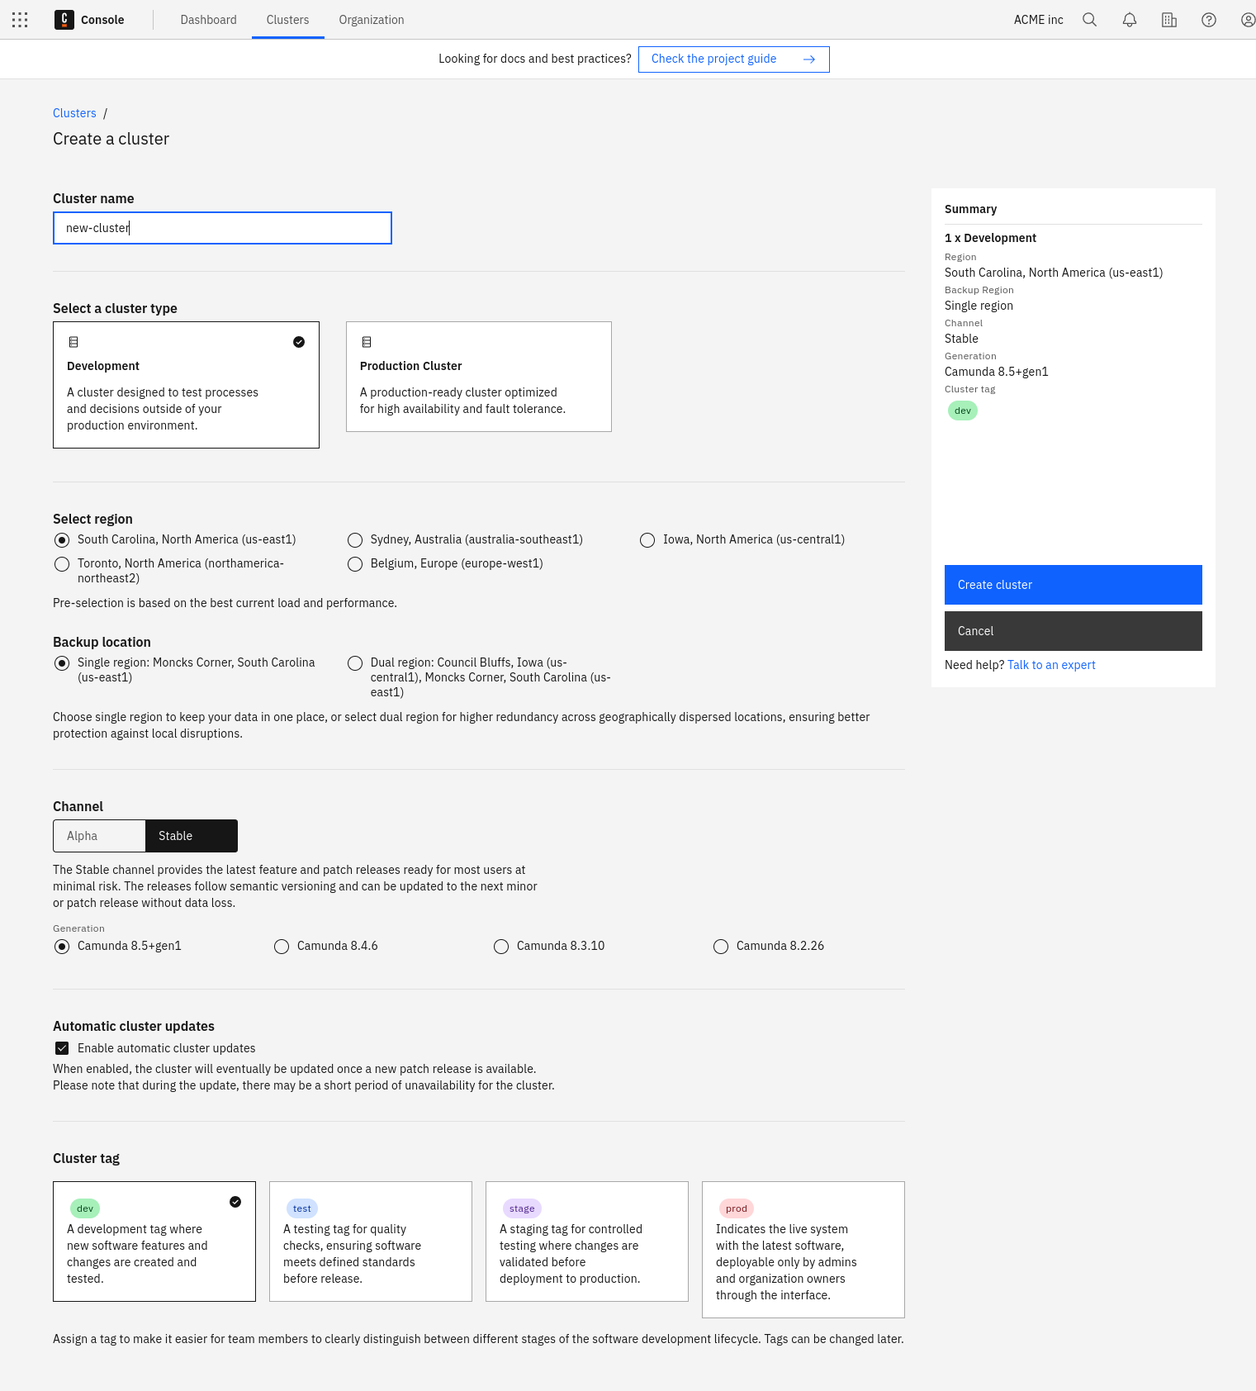
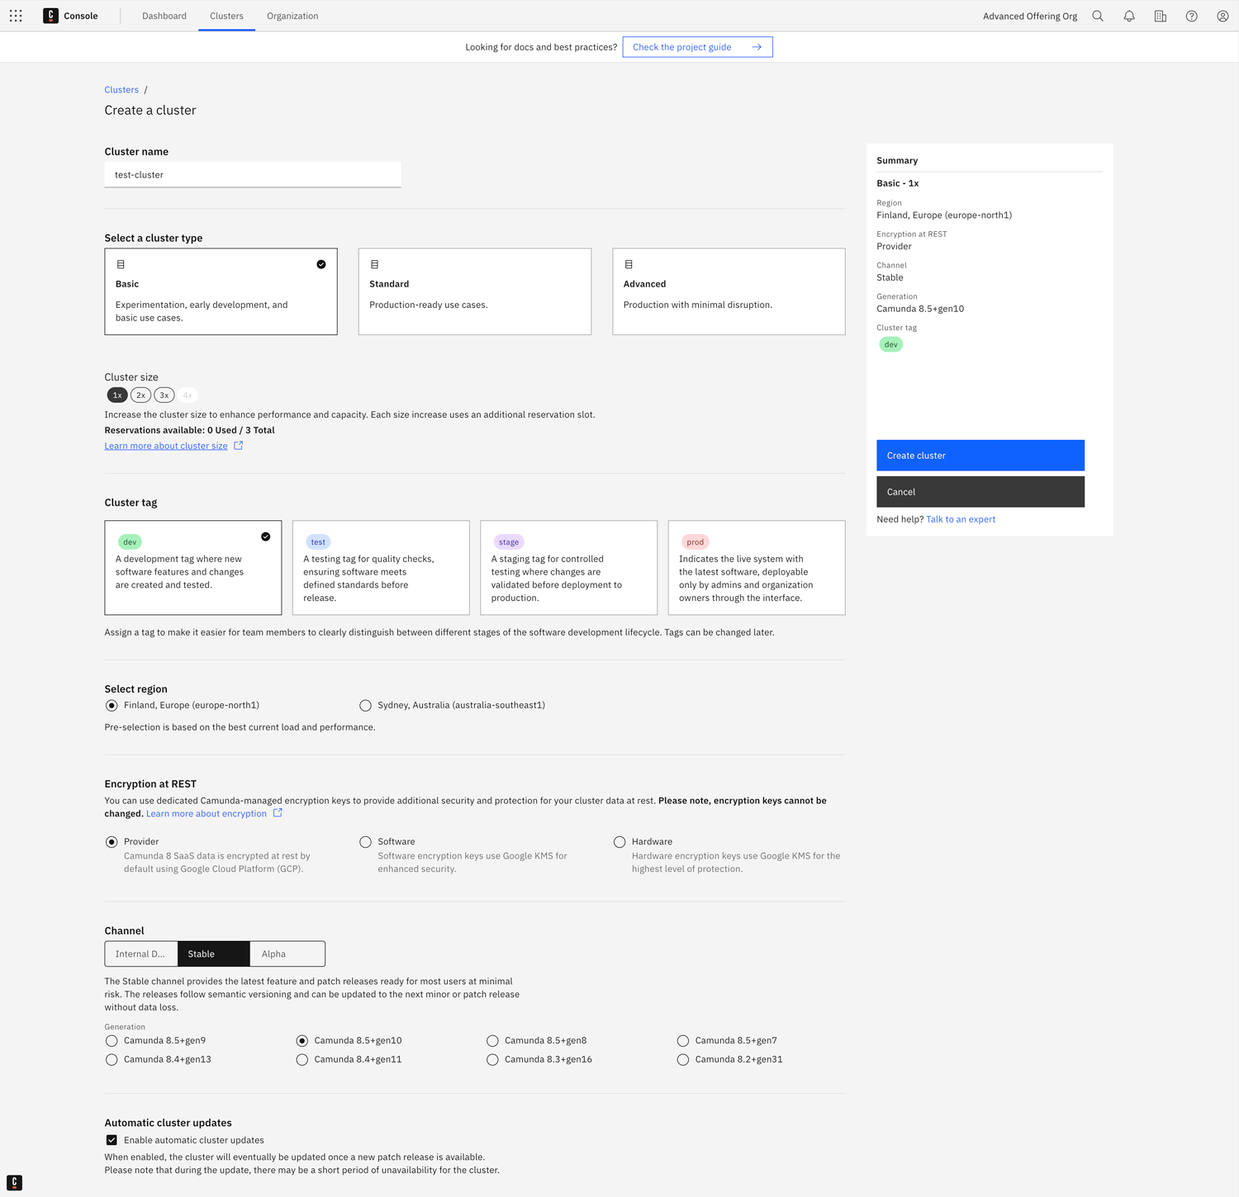
Advanced SaaS Offering with increased uptime (#4361)
* Initial draft of Clusters page

* Fix typo

* Add hardware sizing table

* Review edits

* Cluster sizes table

* TW edits

* TW and feedback edits

* Add 4x size and incorporate feedback

* Fix table Disk size

diff --git a/docs/components/best-practices/architecture/sizing-your-environment.md b/docs/components/best-practices/architecture/sizing-your-environment.md
@@ -87,7 +87,7 @@ The payload size also affects disk space requirements, as described in the next 
 
 The workflow engine itself will store data along every process instance, especially to keep the current state persistent. This is unavoidable. In case there are human tasks, data is also sent to Tasklist and kept there, until tasks are completed.
 
-Furthermore, data is also sent Operate and Optimize, which store data in Elasticsearch. These tools keep historical audit data for some time. The total amount of disk space can be reduced by using **data retention settings**. We typically delete data in Operate after 30 to 90 days, but keep it in Optimize for a longer period of time to allow more analysis. A good rule of thumb is something between 6 and 18 months.
+Furthermore, data is also sent from Operate and Optimize, which store data in Elasticsearch. These tools keep historical audit data for the configured retention times. The total amount of disk space can be reduced by using **data retention settings**. We typically delete data in Operate after 30 to 90 days, but keep it in Optimize for a longer period of time to allow more analysis. A good rule of thumb is something between 6 and 18 months.
 
 :::note
 Elasticsearch needs enough memory available to load a large amount of this data into memory.
@@ -139,23 +139,35 @@ First, calculate your requirements using the information provided above, taking 
 - Throughput: 20,000 process instances / day
 - Disk space: 114 GB
 
-Now you can select a hardware package that can cover these requirements. In this example this fits well into a cluster of size S.
+Now you can select a hardware package that can cover these requirements. In this example this fits well into a cluster of size 2x.
 
 ### Camunda 8 SaaS
 
-Camunda 8 defines three fixed hardware packages you can select from. The table below gives you an indication what requirements you can fulfill with these. If your requirements are above the mentioned numbers, please contact us to discuss a customized sizing.
+Camunda 8 defines four [cluster sizes](/components/concepts/clusters.md#cluster-size) you can select from (1x, 2x, 3x, and 4x) after you have chosen your [cluster type](/components/concepts/clusters.md#cluster-type). The following table gives you an indication of what requirements you can fulfill with each cluster size.
 
-| **\***                                                                   |                               S |                               M |                                L |
-| :----------------------------------------------------------------------- | ------------------------------: | ------------------------------: | -------------------------------: |
-| Max Throughput **Tasks/day**                                             |                           5.9 M |                            23 M |                             43 M |
-| Max Throughput **Tasks/second**                                          |                              65 |                             270 |                              500 |
-| Max Throughput **Process Instances/day**                                 |                           0.5 M |                           2.3 M |                            4.3 M |
-| Max Total Number of Process Instances stored (in Elasticsearch in total) |                           100 k |                           5.4 M |                             15 M |
-| Approx resources provisioned **\*\***                                    | 15 vCPU, 20 GB mem, 640 GB disk | 28 vCPU, 50 GB mem, 640 GB disk | 56 vCPU, 85 GB mem, 1320 GB disk |
+:::note
+Contact your Customer Success Manager if you require a custom cluster size above these requirements.
+:::
 
-**\*** The numbers in the table where measured using Camunda 8 (version 8.0) and [the benchmark project](https://github.com/camunda-community-hub/camunda-8-benchmark). It uses a [ten task process](https://github.com/camunda-community-hub/camunda-8-benchmark/blob/main/src/main/resources/bpmn/typical_process.bpmn). To calculate day-based metrics, an equal distribution over 24 hours is assumed.
+| Cluster size                                                                        |                                 1x |                                  2x |                               3x |                               4x |
+| :---------------------------------------------------------------------------------- | ---------------------------------: | ----------------------------------: | -------------------------------: | -------------------------------: |
+| Max Throughput **Tasks/day** **\***                                                 |                              4.3 M |                               8.6 M |                           12.9 M |                           17.2 M |
+| Max Throughput **Tasks/second** **\***                                              |                                 50 |                                 100 |                              150 |                              200 |
+| Max Throughput **Process Instances/day** **\*\***                                   |                                3 M |                                 6 M |                              9 M |                             12 M |
+| Max Total Number of Process Instances stored (in Elasticsearch in total) **\*\*\*** |                               75 k |                               150 k |                            225 k |                            300 k |
+| Approximate resources provisioned **\*\*\*\***                                      | 11 vCPU, 22 GB memory, 64 GB disk. | 22 vCPU, 44 GB memory, 128 GB disk. | 33 vCPU, 66 GB mem, 192 GB disk. | 44 vCPU, 88 GB mem, 256 GB disk. |
 
-**\*\*** These are the resource limits configured in the Kubernetes cluster and are always subject to change.
+The numbers in the table were measured using Camunda 8 (version 8.6), [the benchmark project](https://github.com/camunda-community-hub/camunda-8-benchmark) running on its own Kubernetes Cluster, and using a [realistic process](https://github.com/camunda/camunda/blob/main/zeebe/benchmarks/project/src/main/resources/bpmn/realistic/bankCustomerComplaintDisputeHandling.bpmn) containing a mix of BPMN symbols such as tasks, events and call activities including subprocesses. To calculate day-based metrics, an equal distribution over 24 hours is assumed.
+
+**\*** Tasks (Service Tasks, Send Tasks, User Tasks, and so on) completed per day is the primary metric, as this is easy to measure and has a strong influence on resource consumption. This number assumes a constant load over the day. Tasks/day and Tasks/ second are scaled linearly.
+
+**\*\*** As Tasks are the primary resource driver, the number of process instances supported by a cluster is calculated based on the assumption of an average of 10 tasks per process. Customers can calculate a more accurate process instance estimate using their anticipated number of tasks per process.
+
+**\*\*\*** Total number of process instances within the retention period, regardless of if they are active or finished. This is limited by disk space, CPU, and memory for running and historical process instances available to ElasticSearch. Calculated assuming a typical set of process variables for process instances. Note that it makes a difference if you add one or two strings (requiring ~ 1kb of space) to your process instances, or if you attach a full JSON document containing 1MB, as this data needs to be stored in various places, influencing memory and disk requirements. If this number increases, you can still retain the runtime throughput, but Tasklist, Operate, and/or Optimize may lag behind.
+
+Data retention has an influence on the amount of data that is kept for completed instances in your cluster. The default data retention is set to 30 days, which means that data that is older than 30 days gets removed from Operate and Tasklist. If a process instance is still active, it is fully functioning in runtime, but customers are not able to access historical data older than 30 days from Operate and Tasklist. Data retention is set to 6 months, meaning that data that is older than 6 months will be removed from Optimize. Up to certain limits data retention can be adjusted by Camunda on request. See [Camunda 8 SaaS data retention](/components/concepts/data-retention.md).
+
+**\*\*\*\*** These are the resource limits configured in the Kubernetes cluster and are always subject to change.
 
 You might wonder why the total number of process instances stored is that low. This is related to limited resources provided to Elasticsearch, yielding performance problems with too much data stored there. By increasing the available memory to Elasticsearch you can also increase that number. At the same time, even with this rather low number, you can always guarantee the throughput of the core workflow engine during peak loads, as this performance is not influenced. Also, you can always increase memory for Elasticsearch later on if it is required.
 
@@ -163,7 +175,7 @@ You might wonder why the total number of process instances stored is that low. T
 
 Provisioning Camunda 8 onto your Self-Managed Kubernetes cluster might depend on various factors. For example, most customers already have their own teams providing Elasticsearch for them as a service.
 
-However, the following example shows a possible configuration which is close to a cluster of size S in Camunda 8 SaaS, which can serve as a starting point for your own sizing.
+However, the following example shows a possible configuration which is close to a cluster of size 1x in Camunda 8 SaaS, which can serve as a starting point for your own sizing.
 
 :::note
 Such a cluster can serve roughly 65 tasks per second as a peak load, and it can store up to 100,000 process instances in Elasticsearch (in-flight and history) before running out of disk-space.

diff --git a/docs/components/concepts/clusters.md b/docs/components/concepts/clusters.md
@@ -6,25 +6,67 @@ description: "Learn more about the clusters available in your Camunda 8 plan."
 
 A [cluster](../../guides/create-cluster.md) is a provided group of production-ready nodes that run Camunda 8.
 
-- **Enterprise** plan customers can create as many production or development clusters as they want based on their Enterprise agreement.
-- **Starter** plan customers are limited based on the [fair usage limits of the plan](https://camunda.com/legal/fair-usage-limits-for-starter-plan/).
+When [creating a cluster in SaaS](/components/console/manage-clusters/create-cluster.md), you can choose the cluster **type** and **size** to meet your organization's availability and scalability needs, and to provide control over cluster performance, uptime, and disaster recovery guarantees.
 
-Production clusters come in three sizes: small (S), medium (M), and large (L). To learn more about the size of cluster best suited for your use case, refer to our [Best Practices](/components/best-practices/best-practices-overview.md) for more information on [sizing your runtime environment](/components/best-practices/architecture/sizing-your-environment.md#sizing-your-runtime-environment).
+:::note
 
-The following table shows each plan and available type or size of cluster:
+Prior to 8.6, clusters were configured by hardware size (S, M, L).
 
-|            | Development | Production - S | Production - M | Production - L |
-| ---------- | ----------- | -------------- | -------------- | -------------- |
-| Free Trial | \-          | X              | \-             | \-             |
-| Free       | \-          | \-             | \-             | \-             |
-| Starter    | X           | X              | \-             | \-             |
-| Enterprise | X           | X              | X              | X              |
+- To learn more about clusters prior to 8.6, see previous documentation versions.
+- To learn more about migrating your existing clusters to the newer model, contact your Customer Success Manager.
 
-When you deploy and execute your [BPMN](/components/modeler/bpmn/bpmn.md) or [DMN](/components/modeler/dmn/dmn.md) models on a production cluster, this might impact your monthly (Starter) or annual (Enterprise) total fee, meaning the more you execute your models, the higher your total fee may be.
+:::
 
-## Free Trial cluster
+## Cluster type
 
-Free Trial clusters have the same functionality as a production cluster, but are size [small (S)](/components/best-practices/architecture/sizing-your-environment.md#camunda-8-saas) and only available during your trial period. You cannot convert a Free Trial cluster to a different kind of cluster.
+The cluster type defines the level of availability and uptime for the cluster.
+
+You can choose from three different cluster types:
+
+- **Basic**: A cluster for non-production use, including experimentation, early development, and basic use cases that do not require a guaranteed high uptime.
+- **Standard**: A production-ready cluster with guaranteed higher uptime.
+- **Advanced**: A production-ready cluster with guaranteed minimal disruption and the highest uptime.
+
+### Cluster availability and uptime
+
+| Type                                                                          | Basic                                                                                  | Standard                                                  | Advanced                                                                              |
+| :---------------------------------------------------------------------------- | :------------------------------------------------------------------------------------- | :-------------------------------------------------------- | :------------------------------------------------------------------------------------ |
+| Usage                                                                         | Non-production use, including experimentation, early development, and basic use cases. | Production-ready use cases with guaranteed higher uptime. | Production-ready use cases with guaranteed minimal disruption and the highest uptime. |
+| Uptime Percentage<br/> (Core Automation Cluster<strong>\*</strong>)           | 99%                                                                                    | 99.5%                                                     | 99.9%                                                                                 |
+| RTO/RPO<strong>\*\*</strong><br/>(Core Automation Cluster<strong>\*</strong>) | RTO: 8 hours<br/>RPO: 24 hours                                                         | RTO: 2 hours<br/>RPO: 4 hours                             | RTO: < 1 hour<br/>RPO: < 1 hour                                                       |
+
+<p><strong>* Core Automation Cluster</strong> means the components critical for automating processes and decisions, such as Zeebe, Operate, Tasklist, Optimize and Connectors.</p>
+<p><strong>**  RTO (Recovery Time Objective)</strong> means the maximum allowable time that a system or application can be down after a failure or disaster before it must be restored. It defines the target time to get the system back up and running. <strong>RPO (Recovery Point Objective)</strong> means the maximum acceptable amount of data loss measured in time. It indicates the point in time to which data must be restored to resume normal operations after a failure. It defines how much data you can afford to lose. The RTO/RPO figures shown in the table are provided on a best-effort basis and are not guaranteed.</p>
+
+:::info
+See [Camunda Enterprise General Terms](https://legal.camunda.com/licensing-and-other-legal-terms#camunda-enterprise-general-terms) for term definitions for **Monthly Uptime Percentage** and **Downtime**.
+:::
+
+## Cluster size
+
+The cluster size defines the cluster performance and capacity.
+
+After you have chosen your cluster type, you can choose the cluster size that best meets your cluster environment requirements.
+
+To learn more about choosing your cluster size, see [sizing your environment](/components/best-practices/architecture/sizing-your-environment.md#sizing-your-runtime-environment).
+
+- You can choose from four cluster sizes: 1x, 2x, 3x, and 4x.
+- Larger cluster sizes include increased performance and capacity, allowing you to serve more workload.
+- Increased usage such as higher throughput or longer data retention requires a larger cluster size.
+- Each size increase uses one of your available cluster reservations. For example, purchasing two HWP advanced reservations for your production cluster allows you to configure two clusters of size 1x, or one cluster of size 2x.
+
+:::note
+
+Contact your Customer Success Manager to:
+
+- Increase the cluster size beyond the maximum 4x size. This requires custom sizing and pricing.
+- Increase the cluster size of an existing cluster.
+
+:::
+
+## Free Trial clusters
+
+Free Trial clusters have the same functionality as a production cluster, but are of a Basic type and 1x size, and only available during your trial period. You cannot convert a Free Trial cluster to a different type of cluster.
 
 Once you sign up for a Free Trial, you are able to create one production cluster for the duration of your trial.
 
@@ -45,29 +87,6 @@ You can resume a paused cluster at any time, which typically takes five to ten m
 To prevent auto-pause, you can:
 
 - Tag the cluster as `test`, `stage`, or `prod` instead of `dev`.
-- [Upgrade your Free Trial plan](https://camunda.com/pricing/) to a Starter, Professional, or Enterprise plan.
+- [Upgrade your Free Trial plan](https://camunda.com/pricing/) to a Starter or Enterprise plan.
 
 :::
-
-## Development clusters
-
-Development clusters, available in the Starter and Enterprise plans, are recommended for development, testing, proof of concepts, and demos.
-
-The way this type of cluster works varies depending on if you are using it in the Starter or the Enterprise plan.
-
-### Development clusters in the Enterprise Plan
-
-Enterprise Plan users can purchase development clusters as part of their Enterprise subscription agreement. Deployment and execution of models (process instances, decision instances, and task users) are included at no extra cost for this type of cluster. Additionally, this type of cluster in the Enterprise plan follows the [standard data retention policy](/components/concepts/data-retention.md) and does not auto-pause when not in use.
-
-Please [contact us](https://camunda.com/contact/) if you are an existing customer and would like to purchase a development cluster.
-
-### Development clusters in the Starter Plan
-
-Starter Plan users have one **development cluster** with free execution for development included in their plan. Deployment and execution of models (process instances, decision instances, and task users) are provided at no cost.
-
-Additional clusters can be purchased through your [billing reservations](/components/console/manage-plan/update-billing-reservations.md).
-
-Additionally in the Starter Plan, the following applies to **development clusters**:
-
-- **Cluster is not highly available & includes less hardware**: Reduced hardware resources and availability compared to production cluster (for example, one Zeebe node only).
-- **Shorter history of processes and decisions**: Data retention in Operate, Optimize, and Tasklist is reduced to one day. For example, pending or historical process instances are deleted after one day as per the [fair usage limits of the Starter plan](https://camunda.com/legal/fair-usage-limits-for-starter-plan/).

diff --git a/docs/components/console/manage-clusters/create-cluster-include.md b/docs/components/console/manage-clusters/create-cluster-include.md
@@ -1,21 +1,36 @@
 ---
 ---
 
-To deploy and run your process, you must create a cluster in Camunda 8.
+To deploy and run your process, you must create a [cluster](/components/concepts/clusters.md) in Camunda 8.
 
 1. To create a cluster, navigate to **Console**, click the **Clusters** tab, and click **Create new cluster**.
-1. Name your cluster. For the purpose of this guide, we recommend using the **Stable** channel and the latest generation.
-1. Select your [region](/docs/reference/regions.md).
-1. Select your [encryption at rest protection level](/docs/components/concepts/encryption-at-rest.md) (enterprise only).
+1. Name your cluster.
+1. Select a [cluster type](/components/concepts/clusters.md#cluster-type) and [cluster size](/components/concepts/clusters.md#cluster-size).
+1. Assign a cluster tag to indicate what type of cluster it is.
+1. Select your [region](/reference/regions.md).
+1. Select your [encryption at rest protection level](/components/concepts/encryption-at-rest.md) (enterprise only).
+1. Select a channel and release. For the purpose of this guide, we recommend using the **Stable** channel and the latest generation.
 1. Click **Create cluster**.
 1. Your cluster will take a few moments to create. Check the status on the **Clusters** page or by clicking into the cluster itself and looking at the **Applications** section.
 
 :::note
 
 - If you haven't created a cluster yet, the **Clusters** page will be empty.
-- Even while the cluster shows a status **Creating**, you can still proceed to begin modeling.
+- You can start modeling even if the cluster shows a **Creating** status.
 
 :::
+
+![cluster-creating-modal](./img/cluster-creating-modal.png)
+
+1. After creating the cluster, you can view the new entry in the **Clusters** tab:
+
+   ![cluster-creating](./img/cluster-overview-new-cluster-creating.png)
+
+2. The cluster is now being set up. During this phase, its state is **Creating**. After one or two minutes, the cluster is ready for use and changes its state to **Healthy**:
+
+   ![cluster-healthy](./img/cluster-overview-new-cluster-healthy.png)
+
+3. After the cluster is created, click on the cluster name to visit the cluster detail page.
 
 ## Development clusters
 
@@ -23,7 +38,7 @@ Starter Plan users have one **development cluster**, with free execution for dev
 Deployment and execution of models (process instances, decision instances, and task users) is provided at no cost.
 Additional clusters can be purchased through your [billing reservations](/components/console/manage-plan/update-billing-reservations.md).
 
-Visit the [clusters page](/components/concepts/clusters.md) to learn more about the differences between **development clusters** and **production clusters**.
+To learn more about the differences between **development clusters** and **production clusters**, see [clusters](/components/concepts/clusters.md).
 
 - **Stable**: Provides the latest feature and patch releases ready for most users at a minimal risk. The releases follow semantic versioning and can be updated to the next minor or patch release without data loss.
 - **Alpha**: Provides preview releases in preparation for the next stable release. They provide a short-term stability point to test new features and give feedback before they are released to the stable channel. Try these to ensure the upcoming release works with your infrastructure. These releases cannot be updated to a newer release, and therefore are not meant to be used in production.
@@ -37,14 +52,3 @@ Only organization owners or users with the **Admin** role in Console can deploy 
 Users without **Admin** roles can deploy only on `dev`, `test`, or `stage` clusters.
 :::
 
-![cluster-creating-modal](./img/cluster-creating-modal.png)
-
-1. After you've made your selection and created the cluster, view the new entry in the **Clusters** tab:
-
-![cluster-creating](./img/cluster-overview-new-cluster-creating.png)
-
-2. The cluster is now being set up. During this phase, its state is **Creating**. After one or two minutes, the cluster is ready for use and changes its state to **Healthy**:
-
-![cluster-healthy](./img/cluster-overview-new-cluster-healthy.png)
-
-3. After the cluster is created, click on the cluster name to visit the cluster detail page.
